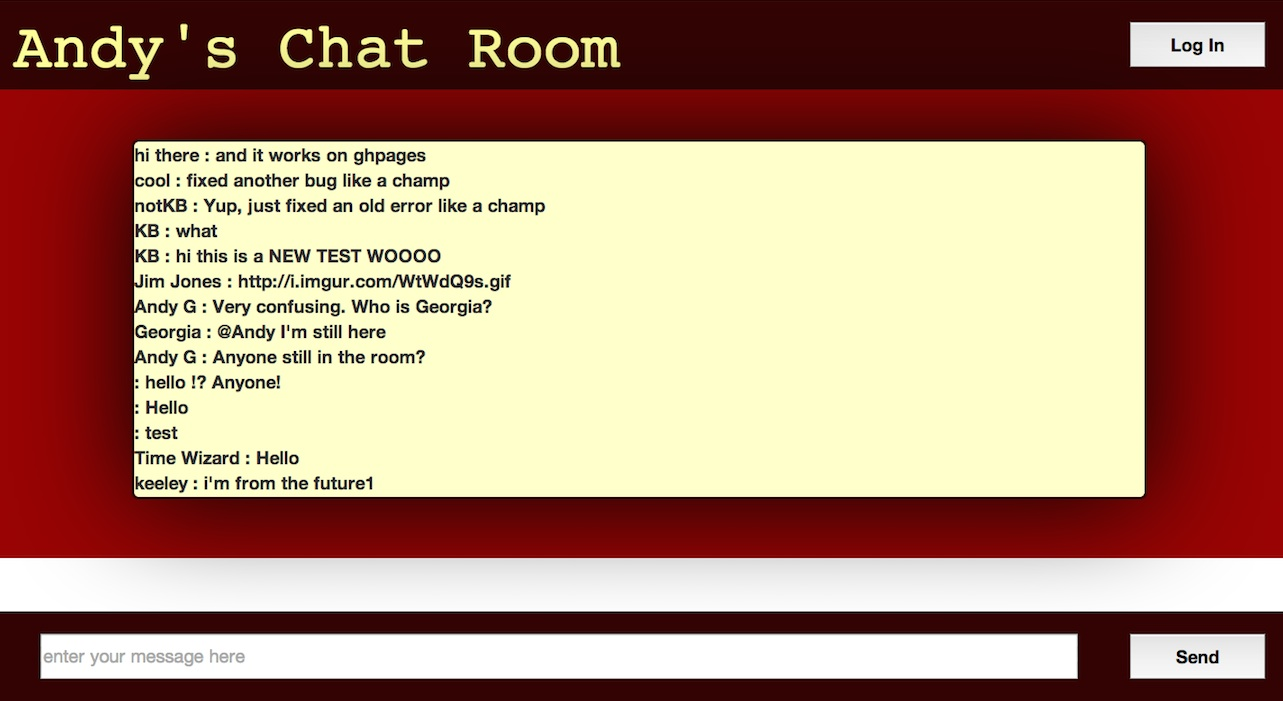
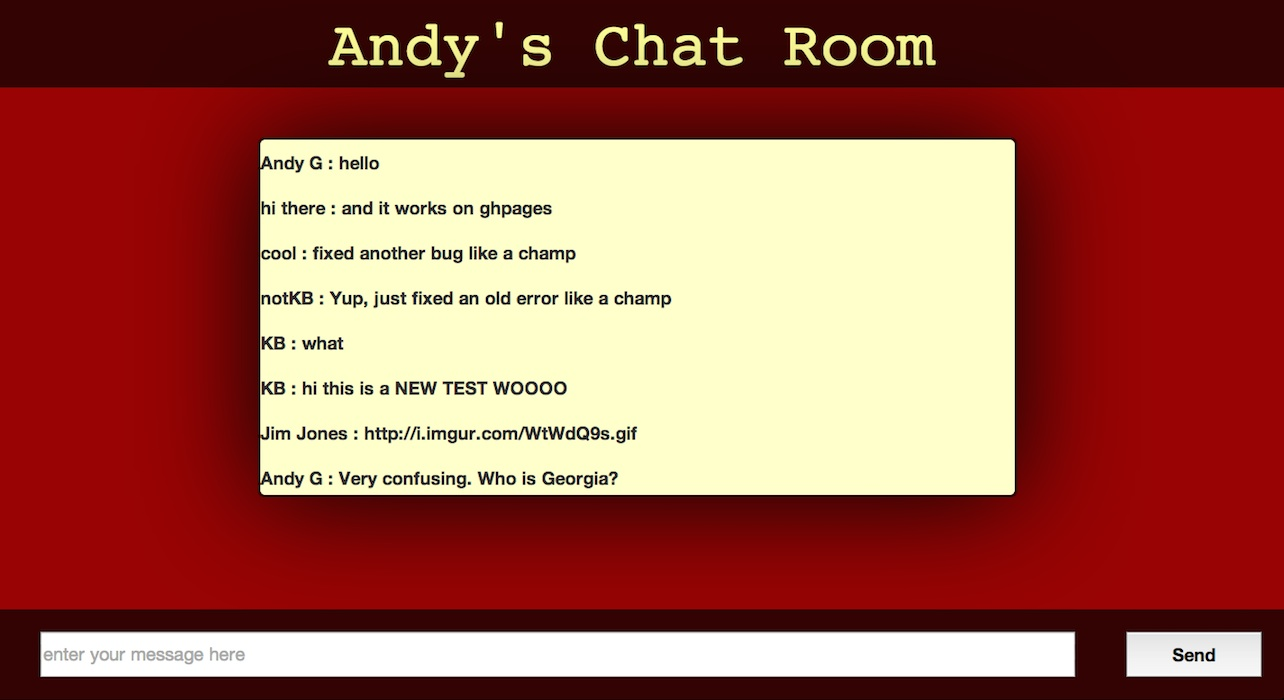
initial subtree

diff --git a/dist/index.html b/dist/index.html
@@ -1,6 +1,6 @@
 <!DOCTYPE html><html class=no-js><head><link href="http://fonts.googleapis.com/css?family=Titillium+Web:400,700" rel=stylesheet type=text/css><meta charset=utf-8><title>Andy M. Georgia</title><meta name=description content=""><meta name=viewport content="width=device-width"><link rel="shortcut icon" href=/6df2b309.favicon.ico><!-- Place favicon.ico and apple-touch-icon.png in the root directory --><link rel=stylesheet href=styles/00951959.main.css><body><!--[if lt IE 10]>
             <p class="browsehappy">You are using an <strong>outdated</strong> browser. Please <a href="http://browsehappy.com/">upgrade your browser</a> to improve your experience.</p>
-        <![endif]--><div class=container><a name=home><div class=headerimg><div class="toolbarButtons toolbarButtonsFirst"><a href=#home>Home</a></div><div class=toolbarButtons><a href=#portfolio>Portfolio</a></div><div class=toolbarButtons><a href=#aboutme>About Me</a></div><div class=toolbarButtons><a href=#contactme>Contact Me</a></div><div class=nameTitle>Andy M Georgia</div><div class=titleEmail><a href=mailto:andygeorgia@hotmail.com>andygeorgia@hotmail.com</a></div><div class=titlePhone><a href=tel:864-376-5721>864-376-5721</a></div></div><a name=portfolio><div class=containerTwo><div class=portfolio>Some Cool Projects</div><div class=projects><div class=projectImage><img src=./images/93b244fa.POS.jpg height=320px width=450px></div><div class=sampleInfo><div class=projectName>Andy's POS</div><div class=projectDescrip>This is what I created for my final project at the Iron Yard. I had three weeks to create an application that showed use of everything that I learned over the three months. For demonstration purposes, please use "Andy" as the username and "1234" as the login.</div><div class=tools>Tools Used:</div><div class=toolsUsed>Parse, jQuery, Underscore, JavaScript, HTML, CSS</div><div class=links><a href=https://github.com/ageorgia79/POSFINAL target=_blank>Source Code</a> | <a href=http://ageorgia79.github.io/POSFINAL target=_blank>Try It!</a></div></div></div><div class=projects><div class=projectImage><img src=./images/dd83b43a.chat.jpg height=320px width=450px></div><div class=sampleInfo><div class=projectName>Chat-Room</div><div class=projectDescrip>This was the first project I did that consisted of using a small backend server. When submitting a chat message, the content is sent to the server and using API calls, is then retrieved and appended to the chat board. Try it out for yourself!</div><div class=tools>Tools Used:</div><div class=toolsUsed>Herokuapp, jQuery, Underscore, HTML, CSS</div><div class=links><a href=https://github.com/ageorgia79/chat-app target=_blank>Source Code</a> | <a href=http://ageorgia79.github.io/chat-app target=_blank>Try It!</a></div></div></div><div class=projects><div class=sampleWork><div class=projectImage><img src=./images/06237624.slots.jpg height=320px width=450px></div><div class=sampleInfo><div class=projectName>Shifting Slots</div><div class=projectDescrip>This was an assignment that required Backbone and learning to move items from one collection to another using Herokuapp as the backend. The buttons give you the ability to shift images forward and back, and delete.</div><div class=tools>Tools Used:</div><div class=toolsUsed>Backbone, jQuery, Underscore, Herokuapp, HTML, CSS</div><div class=links><a href=https://github.com/ageorgia79/slots-of-fun target=_blank>Source Code</a> | <a href=http://ageorgia79.github.io/slots-of-fun target=_blank>Try It!</a></div></div></div></div><div class=projects><div class=sampleWork><div class=projectImage><img src=./images/0db7683e.todo.jpg height=320px width=450px></div><div class=sampleInfo><div class=projectName>To-Do List</div><div class=projectDescrip>This assignment was another assignment that used Backbone to create and delete tasks by creating new objects within multiple collections and destroying models when appropriate.</div><div class=tools>Tools Used:</div><div class=toolsUsed>HTML, CSS, JS</div><div class=links><a href=https://github.com/ageorgia79/To-Do-List target=_blank>Source Code</a> | <a href=http://ageorgia79.github.io/To-Do-List target=_blank>Try It!</a></div></div></div></div><a name=aboutme><div class=thirdContainer><div class=aboutMe>Personal Information</div><div class=aboutMeContainer><div class=me>I am a 35 year old husband to my wonderful wife Mackenzie and father to my three beautiful children, Maddox, Peyton, and Ryanne. We moved to Greenville SC a couple of years ago and I continued my career in sales. This past March 2014, I heard about The Iron Yard, an intensive 3-month code school and decided to learn Front End Engineering. I have always been intrigued by technology. Three months later, here I am, well versed in HTML, CSS and various JS libraries and frameworks. I'm looking forward to the next big opportunity that comes available so that, just like I did for the last three months, I can do the very best I can and create amazing things.</div></div></div><a name=contactme><div class=fourthContainer><div class=fourthCenter><div class=contactMe>Contact Me</div><div class=email><a href=mailto:andygeorgia@hotmail.com>andygeorgia@hotmail.com</a></div><div class=phone><a href=tel:864-376-5721>864-376-5721</a></div><div class=socialIcons></div></div></div></a></a></div><script src=scripts/4776dee8.vendor.js></script><!-- Google Analytics: change UA-XXXXX-X to be your site's ID. --><script>(function(b,o,i,l,e,r){b.GoogleAnalyticsObject=l;b[l]||(b[l]=
+        <![endif]--><div class=container><a name=home><div class=headerimg><div class="toolbarButtons toolbarButtonsFirst"><a href=#home>Home</a></div><div class=toolbarButtons><a href=#portfolio>Portfolio</a></div><div class=toolbarButtons><a href=#aboutme>About Me</a></div><div class=toolbarButtons><a href=#contactme>Contact Me</a></div><div class=nameTitle>Andy M Georgia</div><div class=titleEmail><a href=mailto:andygeorgia@hotmail.com>andygeorgia@hotmail.com</a></div><div class=titlePhone><a href=tel:864-376-5721>864-376-5721</a></div></div><a name=portfolio><div class=containerTwo><div class=portfolio>Some Cool Projects</div><div class=projects><div class=projectImage><img src=./images/93b244fa.POS.jpg height=320px width=450px></div><div class=sampleInfo><div class=projectName>Andy's POS</div><div class=projectDescrip>This is what I created for my final project at the Iron Yard. I had three weeks to create an application that showed use of everything that I learned over the three months. For demonstration purposes, please use "Andy" as the username and "1234" as the login.</div><div class=tools>Tools Used:</div><div class=toolsUsed>Parse, jQuery, Underscore, JavaScript, HTML, CSS</div><div class=links><a href=https://github.com/ageorgia79/POSFINAL target=_blank>Source Code</a> | <a href=http://ageorgia79.github.io/POSFINAL target=_blank>Try It!</a></div></div></div><div class=projects><div class=projectImage><img src=./images/7310d02f.chat.jpg height=320px width=450px></div><div class=sampleInfo><div class=projectName>Chat-Room</div><div class=projectDescrip>This was the first project I did that consisted of using a small backend server. When submitting a chat message, the content is sent to the server and using API calls, is then retrieved and appended to the chat board. Try it out for yourself!</div><div class=tools>Tools Used:</div><div class=toolsUsed>Herokuapp, jQuery, Underscore, HTML, CSS</div><div class=links><a href=https://github.com/ageorgia79/chat-app target=_blank>Source Code</a> | <a href=http://ageorgia79.github.io/chat-app target=_blank>Try It!</a></div></div></div><div class=projects><div class=sampleWork><div class=projectImage><img src=./images/06237624.slots.jpg height=320px width=450px></div><div class=sampleInfo><div class=projectName>Shifting Slots</div><div class=projectDescrip>This was an assignment that required Backbone and learning to move items from one collection to another using Herokuapp as the backend. The buttons give you the ability to shift images forward and back, and delete.</div><div class=tools>Tools Used:</div><div class=toolsUsed>Backbone, jQuery, Underscore, Herokuapp, HTML, CSS</div><div class=links><a href=https://github.com/ageorgia79/slots-of-fun target=_blank>Source Code</a> | <a href=http://ageorgia79.github.io/slots-of-fun target=_blank>Try It!</a></div></div></div></div><div class=projects><div class=sampleWork><div class=projectImage><img src=./images/0db7683e.todo.jpg height=320px width=450px></div><div class=sampleInfo><div class=projectName>To-Do List</div><div class=projectDescrip>This assignment was another assignment that used Backbone to create and delete tasks by creating new objects within multiple collections and destroying models when appropriate.</div><div class=tools>Tools Used:</div><div class=toolsUsed>HTML, CSS, JS</div><div class=links><a href=https://github.com/ageorgia79/To-Do-List target=_blank>Source Code</a> | <a href=http://ageorgia79.github.io/To-Do-List target=_blank>Try It!</a></div></div></div></div><a name=aboutme><div class=thirdContainer><div class=aboutMe>Personal Information</div><div class=aboutMeContainer><div class=me>I am a 35 year old husband to my wonderful wife Mackenzie and father to my three beautiful children, Maddox, Peyton, and Ryanne. We moved to Greenville SC a couple of years ago and I continued my career in sales. This past March 2014, I heard about The Iron Yard, an intensive 3-month code school and decided to learn Front End Engineering. I have always been intrigued by technology. Three months later, here I am, well versed in HTML, CSS and various JS libraries and frameworks. I'm looking forward to the next big opportunity that comes available so that, just like I did for the last three months, I can do the very best I can and create amazing things.</div></div></div><a name=contactme><div class=fourthContainer><div class=fourthCenter><div class=contactMe>Contact Me</div><div class=email><a href=mailto:andygeorgia@hotmail.com>andygeorgia@hotmail.com</a></div><div class=phone><a href=tel:864-376-5721>864-376-5721</a></div><div class=socialIcons></div></div></div></a></a></div><script src=scripts/4776dee8.vendor.js></script><!-- Google Analytics: change UA-XXXXX-X to be your site's ID. --><script>(function(b,o,i,l,e,r){b.GoogleAnalyticsObject=l;b[l]||(b[l]=
             function(){(b[l].q=b[l].q||[]).push(arguments)});b[l].l=+new Date;
             e=o.createElement(i);r=o.getElementsByTagName(i)[0];
             e.src='//www.google-analytics.com/analytics.js';
